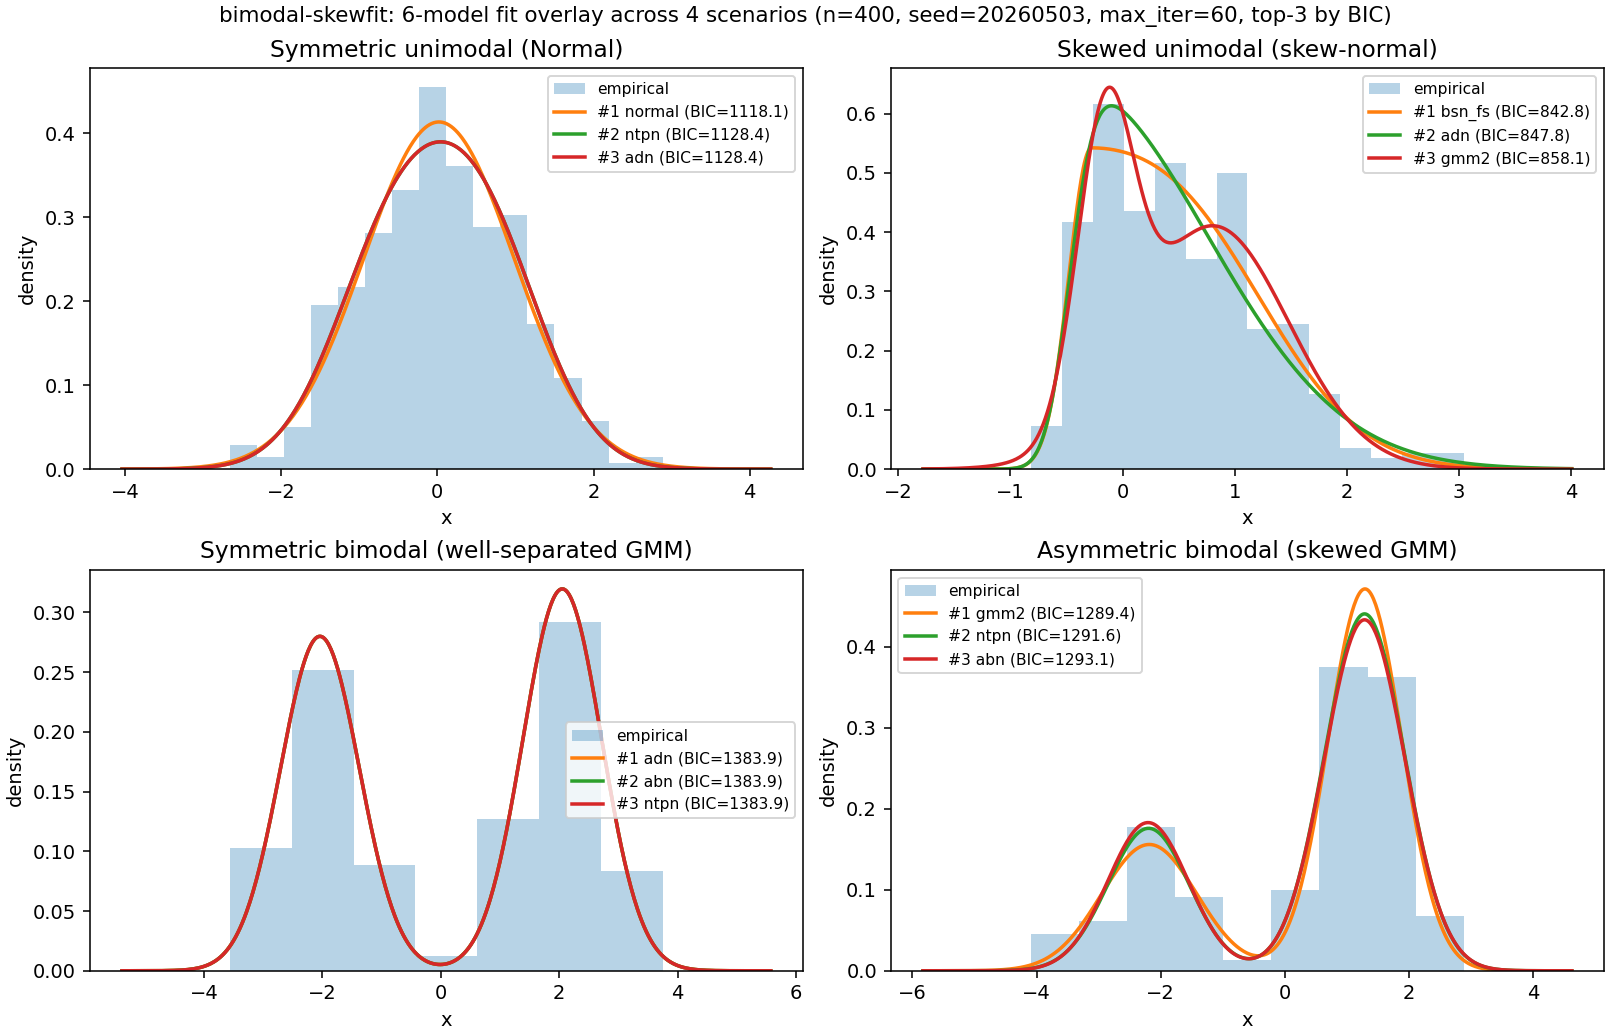
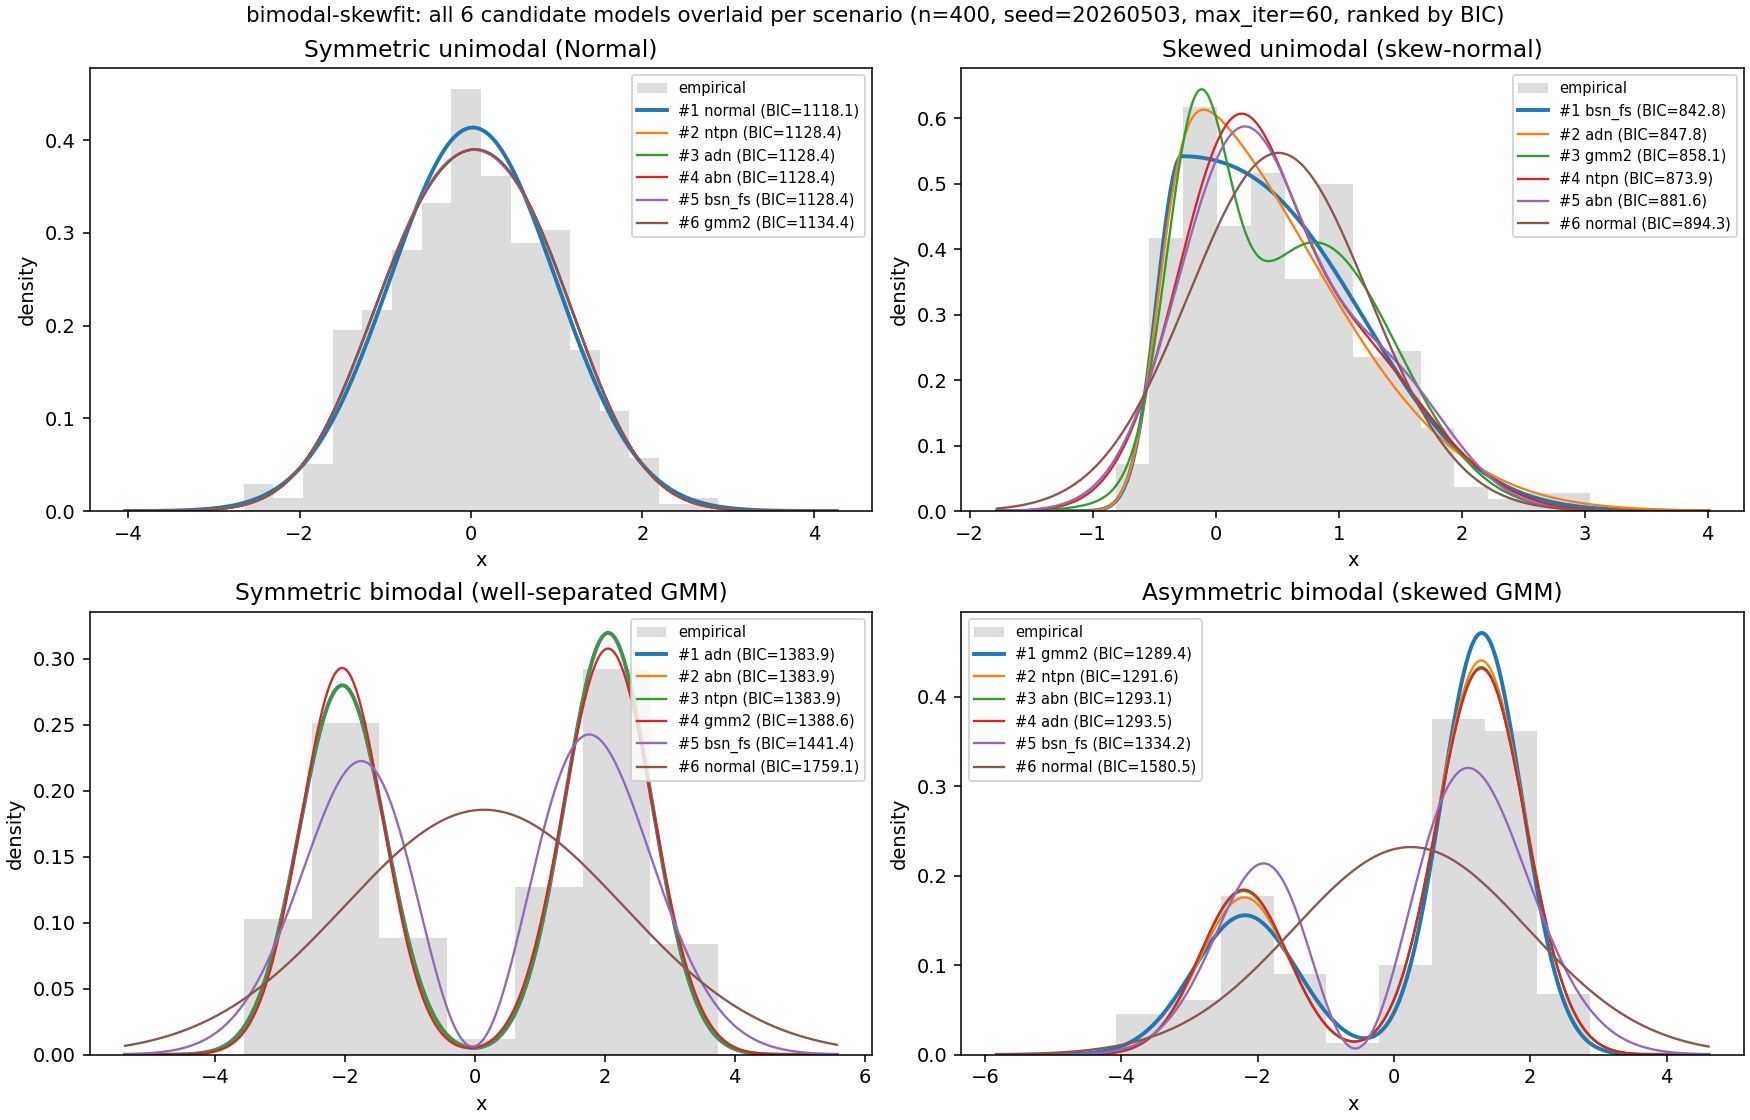
docs: overview plot now overlays all 6 candidate models, not just top-3
The README banner was advertising a "6-model fit" but only drew the top-3
by BIC, which made the legend show #1/#2/#3 and miss the lower-ranked
candidates entirely. Render every candidate, sort by BIC, and emphasise
#1 with a thicker line so the visually dominant curve is still the winner.

Update the caption accordingly and bump figure size + legend density to
fit six entries per subplot legibly.

diff --git a/scripts/build_overview_plot.py b/scripts/build_overview_plot.py
@@ -32,15 +32,14 @@ SCENARIOS = (
 SAMPLE_SIZE = 400
 SEED = 20260503
 MAX_ITER = 60
-TOP_K = 3
 OUTPUT = Path("docs/fit_summary_overview.png")
 
 
 def main() -> int:
-    fig, axes = plt.subplots(2, 2, figsize=(11.5, 7.4), constrained_layout=True)
+    fig, axes = plt.subplots(2, 2, figsize=(12.5, 8.0), constrained_layout=True)
     fig.suptitle(
-        f"bimodal-skewfit: 6-model fit overlay across 4 scenarios "
-        f"(n={SAMPLE_SIZE}, seed={SEED}, max_iter={MAX_ITER}, top-{TOP_K} by BIC)",
+        f"bimodal-skewfit: all 6 candidate models overlaid per scenario "
+        f"(n={SAMPLE_SIZE}, seed={SEED}, max_iter={MAX_ITER}, ranked by BIC)",
         fontsize=11,
     )
 
@@ -48,20 +47,20 @@ def main() -> int:
         data = generate_scenario_data(name, SAMPLE_SIZE, SEED)
         grid = empirical_quantile_grid(data)
         results = sorted(fit_all(data, seed=SEED, max_iter=MAX_ITER), key=lambda r: r.bic)
-        top = results[:TOP_K]
 
-        ax.hist(data, bins="fd", density=True, alpha=0.32, label="empirical")
-        for rank, result in enumerate(top, start=1):
+        ax.hist(data, bins="fd", density=True, alpha=0.30, label="empirical", color="0.55")
+        for rank, result in enumerate(results, start=1):
+            linewidth = 2.0 if rank == 1 else 1.2
             ax.plot(
                 grid,
                 result.pdf(grid),
-                linewidth=1.8,
+                linewidth=linewidth,
                 label=f"#{rank} {result.model} (BIC={result.bic:.1f})",
             )
         ax.set_title(label)
         ax.set_xlabel("x")
         ax.set_ylabel("density")
-        ax.legend(loc="best", fontsize=8)
+        ax.legend(loc="best", fontsize=7.5)
 
     OUTPUT.parent.mkdir(parents=True, exist_ok=True)
     fig.savefig(OUTPUT, dpi=140)

diff --git a/README.md b/README.md
@@ -4,7 +4,7 @@
 
 ![fit summary overview](docs/fit_summary_overview.png)
 
-> 4 つの代表シナリオに対する 6 モデル一括フィット結果 (n=400, seed=20260503, max_iter=60, BIC top-3 表示)。再生成は `uv run python scripts/build_overview_plot.py`。
+> 4 つの代表シナリオそれぞれに 6 モデル全部 (`normal` / `gmm2` / `abn` / `adn` / `bsn_fs` / `ntpn`) を一括フィットし、BIC 昇順で重ね描き。#1 (各シナリオの最良モデル) のみ太線。n=400, seed=20260503, max_iter=60。再生成は `uv run python scripts/build_overview_plot.py`。
 
 ## ドキュメント
 
